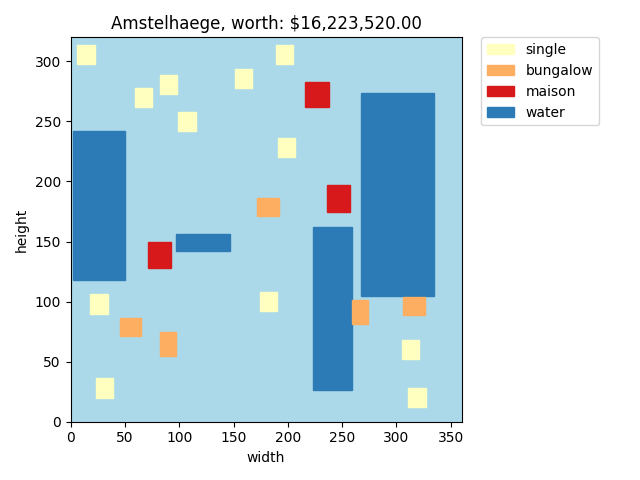
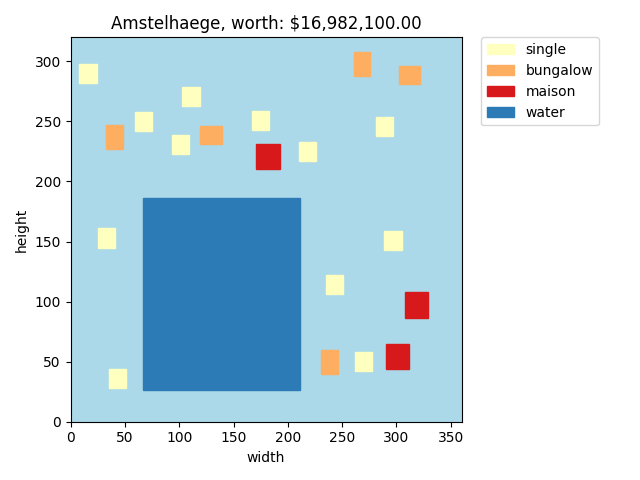
ke dit

diff --git a/main.py b/main.py
@@ -19,11 +19,11 @@ def main():
 		print("invalid number of houses")
 
 	best_gridvalues = []
-	for repeat in range(100):
+	for repeat in range(3):
 		print(repeat)
 		gridvalue = Random(int(nr_of_houses))
-		print(gridvalue[2])
 		if len(best_gridvalues) != 0:
+			print("best {} vs now {}".format(best_gridvalues[2], gridvalue[2]))
 			if best_gridvalues[2] > gridvalue[2]:
 				pass
 			else:
@@ -36,10 +36,6 @@ def main():
 	total_value = best_gridvalues[2]
 
 	Area().makegrid(coordinate_list, water_coordinates, total_value)
-
-	Random(60)
-
-
 
 	# placing the houses and water randomly
 			# 20 houses

diff --git a/code/classes/grid.py b/code/classes/grid.py
@@ -62,9 +62,11 @@ class Area(object):
 		elif thing == "space":
 			for i in range(housecords[0], (housecords[2])):
 				for j in range(housecords[3], (housecords[1])):
-					if grid[j][i] == "0":
+					if grid[j][i] == "s":
+						grid[j][i] = "ss"
+					elif grid[j][i] == "0":
 						grid[j][i] = "s"
-					elif grid[j][i] == "w" or grid[j][i] == "s":
+					elif grid[j][i] == "w":
 						pass
 
 		return grid
